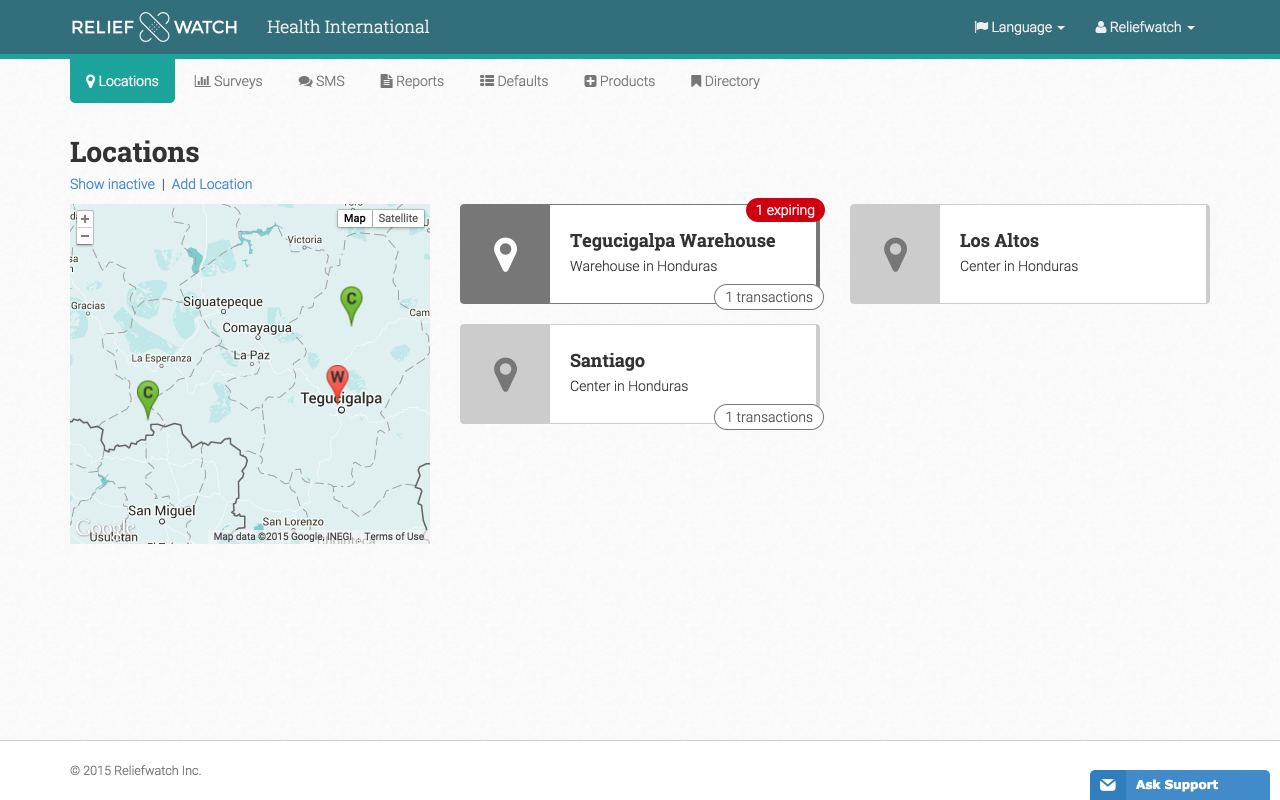
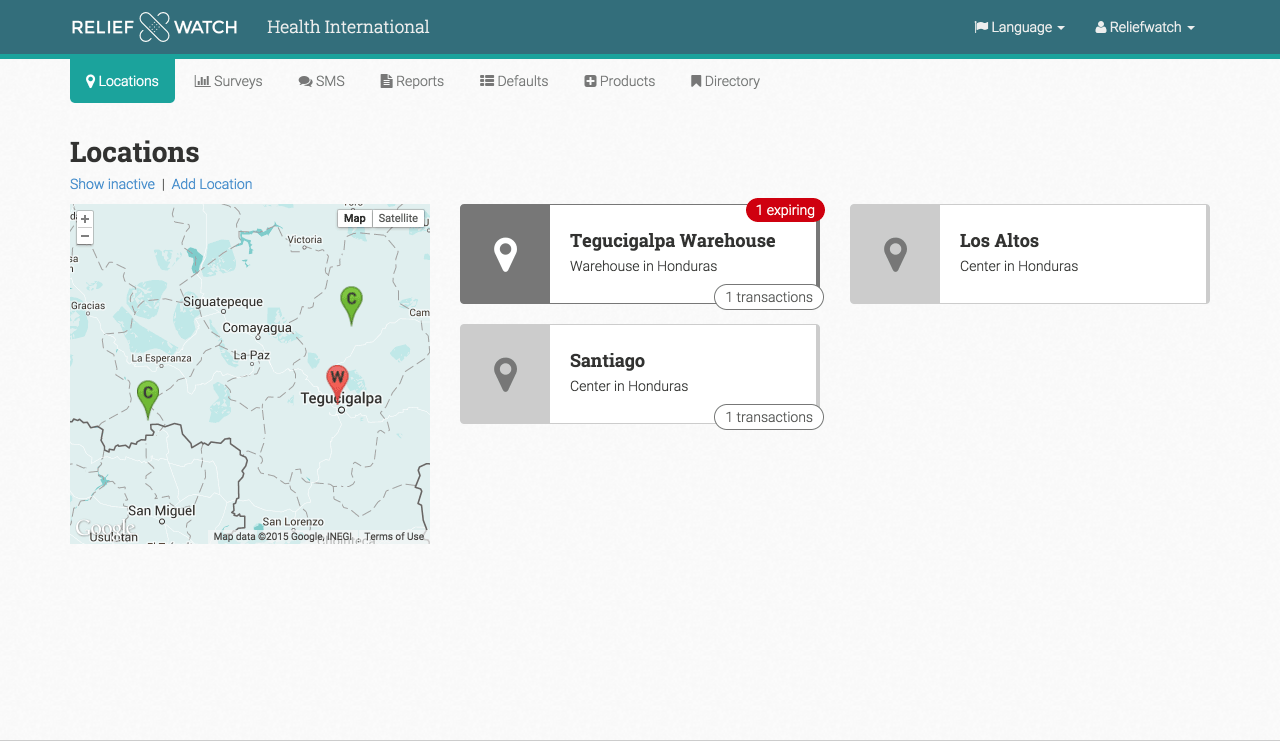
compress images

diff --git a/portfolio.html b/portfolio.html
@@ -10,7 +10,7 @@
 </p><div class="image-container"><div class="thumb current" style="max-width: 500px; background-image: url('/img/nineteen-prototype.gif')" alt="Prototype showing key interactions"></div><div class="thumb" style="max-width: none; background-image: url('/img/nineteen-final-1.png')" alt="The final design"></div><div class="thumb" style="max-width: none; background-image: url('/img/nineteen-final-2.png')" alt="Showing active states"></div><p class="caption"><strong>Fig. <span class="number">1</span>:&nbsp;</strong><span class="description">Prototype showing key interactions</span></p><img class="large" src="/img/nineteen-prototype.gif" alt="Prototype showing key interactions" style="max-width: 500px"></div></div><div class="project"><h2>Reliefwatch</h2><div class="tags">UX . UI . back-end . front-end</div><p>Reliefwatch makes supply chain software for health organizations in the developing world.
 </p><h3>The problem</h3><p>Current supply chain solutions require infrastructure that doesn&rsquo;t yet exist in remote areas, like reliable internet access. However, most people have access to basic mobile phones.
 </p><h3>The solution</h3><p>Reliefwatch uses automated voice calls to gather data from remote workers and share it with healthcare providers.
-</p><div class="image-container"><div class="thumb current" style="max-width: 500px; background-image: url('/img/reliefwatch-mobile.png')" alt="Mobile survey &amp; inventory tracking"></div><div class="thumb" style="max-width: none; background-image: url('/img/reliefwatch-dashboard.png')" alt="Desktop dashboard"></div><p class="caption"><strong>Fig. <span class="number">1</span>:&nbsp;</strong><span class="description">Mobile survey &amp; inventory tracking</span></p><img class="large" src="/img/reliefwatch-mobile.png" alt="Mobile survey &amp; inventory tracking" style="max-width: 500px"></div></div></div></div></div><script src="//ajax.googleapis.com/ajax/libs/jquery/2.2.3/jquery.min.js"></script><script src="//cdnjs.cloudflare.com/ajax/libs/gsap/1.18.4/TweenMax.min.js"></script><script src="dist/base.min.js"></script><script>(function(i,s,o,g,r,a,m){i["GoogleAnalyticsObject"]=r;i[r]=i[r]||function(){
+</p><div class="image-container"><div class="thumb current" style="max-width: 500px; background-image: url('/img/reliefwatch-mobile.jpg')" alt="Mobile survey &amp; inventory tracking"></div><div class="thumb" style="max-width: none; background-image: url('/img/reliefwatch-dashboard.png')" alt="Desktop dashboard"></div><p class="caption"><strong>Fig. <span class="number">1</span>:&nbsp;</strong><span class="description">Mobile survey &amp; inventory tracking</span></p><img class="large" src="/img/reliefwatch-mobile.jpg" alt="Mobile survey &amp; inventory tracking" style="max-width: 500px"></div></div></div></div></div><script src="//ajax.googleapis.com/ajax/libs/jquery/2.2.3/jquery.min.js"></script><script src="//cdnjs.cloudflare.com/ajax/libs/gsap/1.18.4/TweenMax.min.js"></script><script src="dist/base.min.js"></script><script>(function(i,s,o,g,r,a,m){i["GoogleAnalyticsObject"]=r;i[r]=i[r]||function(){
 (i[r].q=i[r].q||[]).push(arguments)},i[r].l=1*new Date();a=s.createElement(o),
 m=s.getElementsByTagName(o)[0];a.async=1;a.src=g;m.parentNode.insertBefore(a,m)
 })(window,document,"script","https://www.google-analytics.com/analytics.js","ga");
